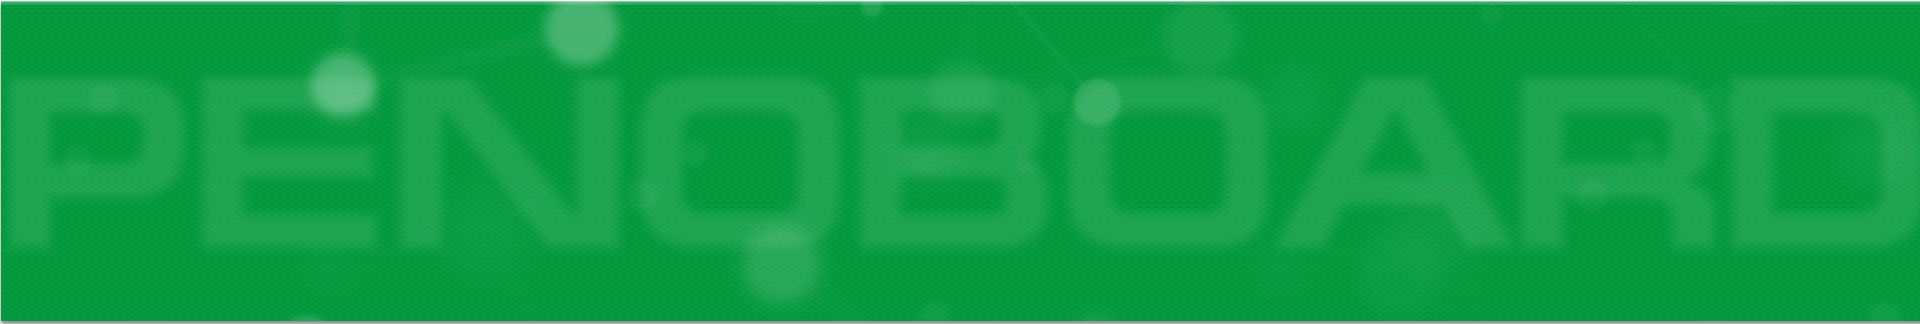
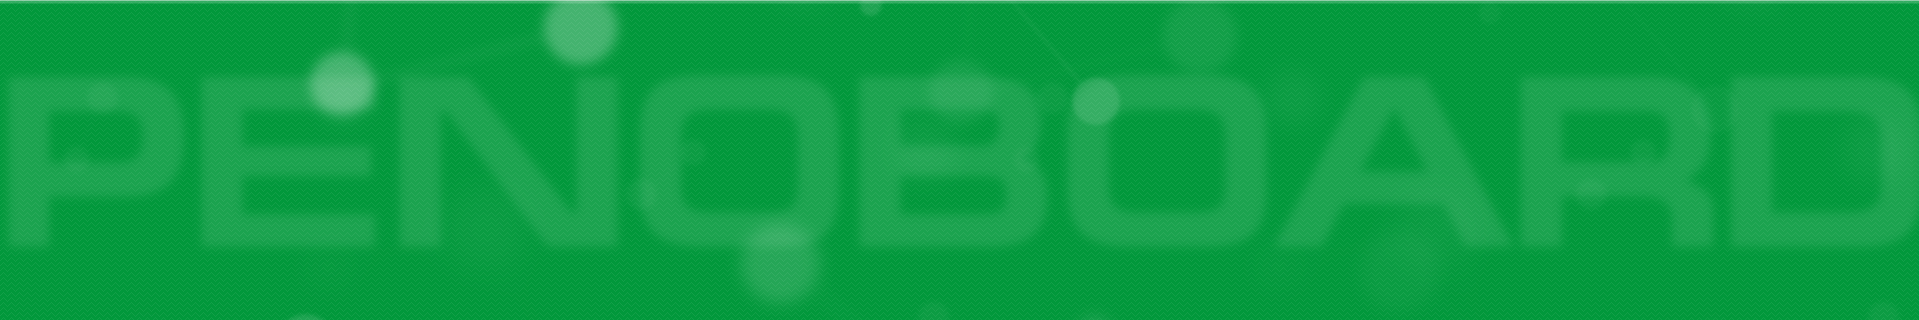
upd

Changed region(s): [[0.0, 0.9688, 1.0, 1.0], [0.0, 0.0, 1.0, 0.0312]]

diff --git a/src/js/formReg.js b/src/js/formReg.js
@@ -46,7 +46,7 @@ $(document).ready(function(){
         messages: {
             name: 'Логин должен содержать не менее 4 символов',              
             user_email: 'Введите корректный email',
-            psword: 'Пароль должен содержать не менее 6 символов',
+            password: 'Пароль должен содержать не менее 6 символов',
             conf_password: 'Введите правильный пароль'            
         },
         success: "valid",                

diff --git a/src/scss/modules/footer.scss b/src/scss/modules/footer.scss
@@ -1,5 +1,5 @@
 .footer {
-    height: 323px;
+    height: 320px;
     background-image: url(../../img/footer_bg.png);
     display: flex;
     flex-direction: column;

diff --git a/src/scss/main.scss b/src/scss/main.scss
@@ -19,6 +19,7 @@ html, body {
 .wrap {    
     position: relative;
     width: 100%;
+    background-color: $color-primary;
 }
 .wrap-bg {
     display: none;
